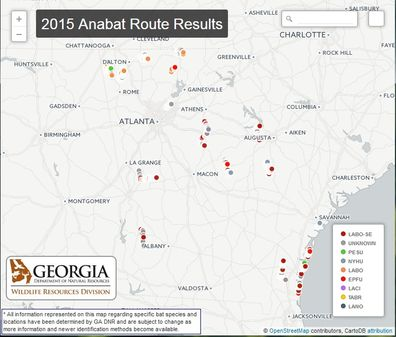
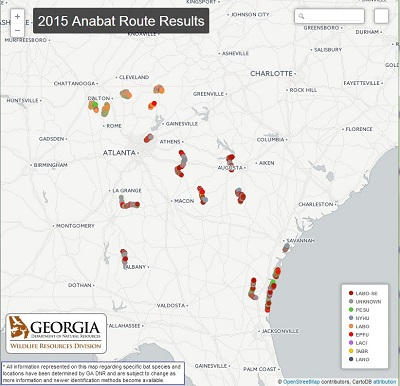
Add and update data on past Anabat surveys for 2014 and 2015.

diff --git a/anabat/delete.html b/anabat/delete.html
@@ -1,0 +1,94 @@
+<html>
+  <head>
+    <meta name="generator"
+    content="HTML Tidy for HTML5 (experimental) for Windows https://github.com/w3c/tidy-html5/tree/c63cc39" />
+    <title></title>
+  </head>
+  <body>
+    <p>Georgia is participating in a volunteer-based, nationwide acoustic survey effort to collect long-term data about bats.</p>
+    <p>The state is home to 16 species of bats. All of them eat insects exclusively and use echolocation to navigate, communicate
+    and find food. Echolocation calls can be recorded and used to identify bats.</p>
+    <p>The national acoustic survey protocol provides 
+    <a target="_blank"
+    href="/sites/default/files/uploads/wildlife/nongame/pdf/anabat/Acoustic%20Transect%20Guidance.pdf">guidelines</a> for states to
+    follow when starting monitoring programs. Here is a basic outline of the methods for Georgia:</p>
+    <ul>
+      <li>Transects are approximately 30 miles long along a path that minimizes sampling the same stretches of road (one-way
+      straight-line movement).</li>
+      <li>Transects should pass through a variety of habitat types common in the area.</li>
+      <li>Sampling should occur twice each year, once in June and once in July.</li>
+      <li>Sampling should only occur on nights suitable for bat activity (low wind, no rain or fog, appropriate temperatures --
+      above 60 degrees.</li>
+      <li>Sampling should begin 30 minutes after sunset.</li>
+      <li>Transects should be run at 20 mph.</li>
+    </ul>
+    <p>Detailed instructions for using the Anabat can be found 
+    <a href="/sites/default/files/uploads/wildlife/nongame/pdf/anabat/UPDATEDAnabat_%20Instructions_RoofMountMicrophone_Volunteers_2016.pdf">
+
+      <strong>here</strong>
+    </a> . An instructional video is available below.</p>
+    <p>Georgia&#39;s acoustic survey routes are shown 
+    <a href="http://georgiawildlife.com/sites/default/files/uploads/wildlife/nongame/text/html/anabat_map.html">
+      <strong>this map link</strong>
+    </a> . Routes in green are available for surveys. Click on a route in your area to get information about road conditions,
+    driving directions and a map.</p>
+    <p>Who should volunteer? Here are some things to consider before signing up:</p>
+    <ul>
+      <li>You must have a vehicle you are able to use for one scouting route (during the first year only) and two sampling routes
+      each year.</li>
+      <li>Some routes require a 4-wheel-drive vehicle.</li>
+      <li>Routes must be completed twice each year, once in June and once in July (preferably approximately one month apart).</li>
+      <li>Routes cannot be run during rainy, foggy or windy conditions. You must be able to have flexibility in your schedule.</li>
+      <li>There are a limited number of Anabat units available for use across the state. Volunteers must be willing to coordinate
+      picking up and dropping off Anabat units with other volunteers. This also may require some driving.</li>
+      <li>This is a long-term monitoring project. Volunteers should be available to run the same routes for at least the next
+      several years (if possible).</li>
+    </ul>
+    <p>How do you volunteer? Choose an available route you&#39;re interested in from the map below. Then contact DNR wildlife
+    biologist Trina Morris for information about getting started.</p>
+    <p>Trina Morris
+    <br />
+    <a href="mailto:gadnrbats@dnr.ga.gov">gadnrbats@dnr.ga.gov</a>
+    <br />(770) 918-6411</p>
+    <p>Resources:</p>
+    <h3>
+      <a target="_blank"
+      href="/sites/default/files/uploads/wildlife/nongame/pdf/anabat/DNRVolunteer_CompleteVolunteerApplication_2013.pdf">Anabat
+      Volunteer Application and Waiver</a>
+      <br />
+      <a target="_blank"
+      href="/sites/default/files/uploads/wildlife/nongame/pdf/anabat/UPDATEDAnabat_%20Instructions_RoofMountMicrophone_Volunteers_2016.pdf">
+      Georgia Anabat Instructions</a>
+      <br />
+      <a target="_blank" href="/sites/default/files/uploads/wildlife/nongame/pdf/anabat/Anabat%20Route%20Data%20Sheet.pdf">Georgia
+      Acoustic Monitoring Data Sheet</a>
+    </h3>
+    
+    <h3>Results from past Anabat surveys</h3>
+    <style>
+hr {
+background-color: #888;
+height: 10px;
+}
+  
+</style>
+    <hr />
+    <figure>
+      <a href="bat_ids_from_anabat_routes_2014.html">
+        <img src="2014_anabat_route_results.jpg" alt="2014 Anabat route results" />
+        <figcaption>
+          <strong>Full screen interactive map of Anabat 2014 results for Georgia.</strong>
+        </figcaption>
+      </a>
+    </figure>
+    <hr />
+    <figure>
+      <a href="bat_ids_from_anabat_routes_2015.html">
+        <img src="2015_anabat_route_results.jpg" alt="2015 Anabat route results" />
+        <figcaption>
+          <strong>Full screen interactive map of Anabat 2015 results for Georgia.</strong>
+        </figcaption>
+      </a>
+    </figure>
+  </body>
+</html>
